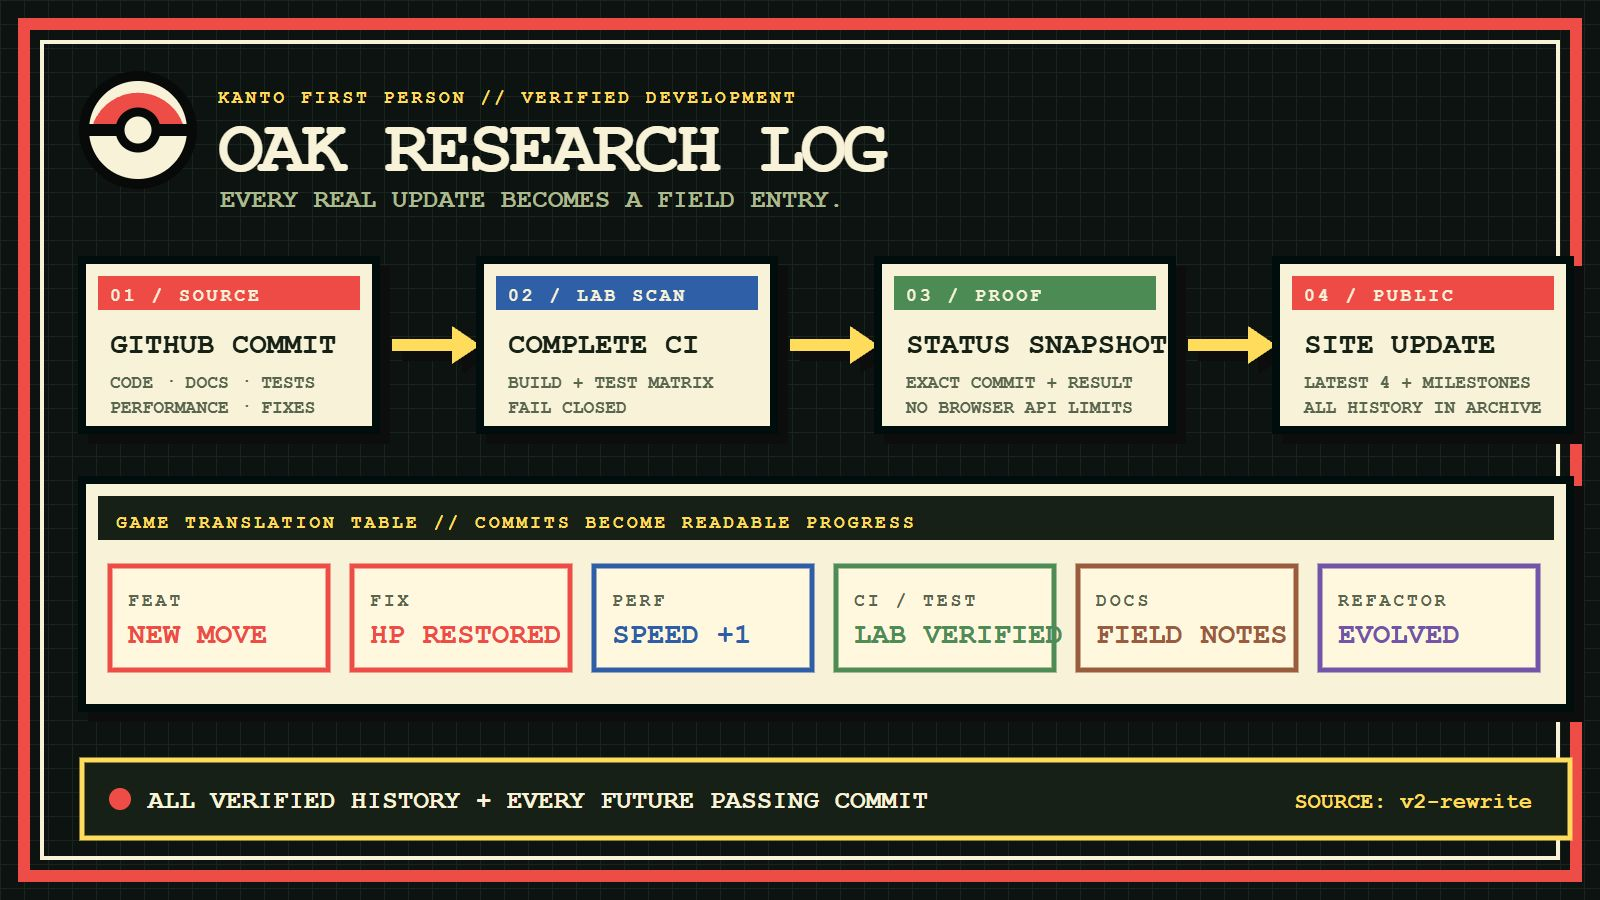
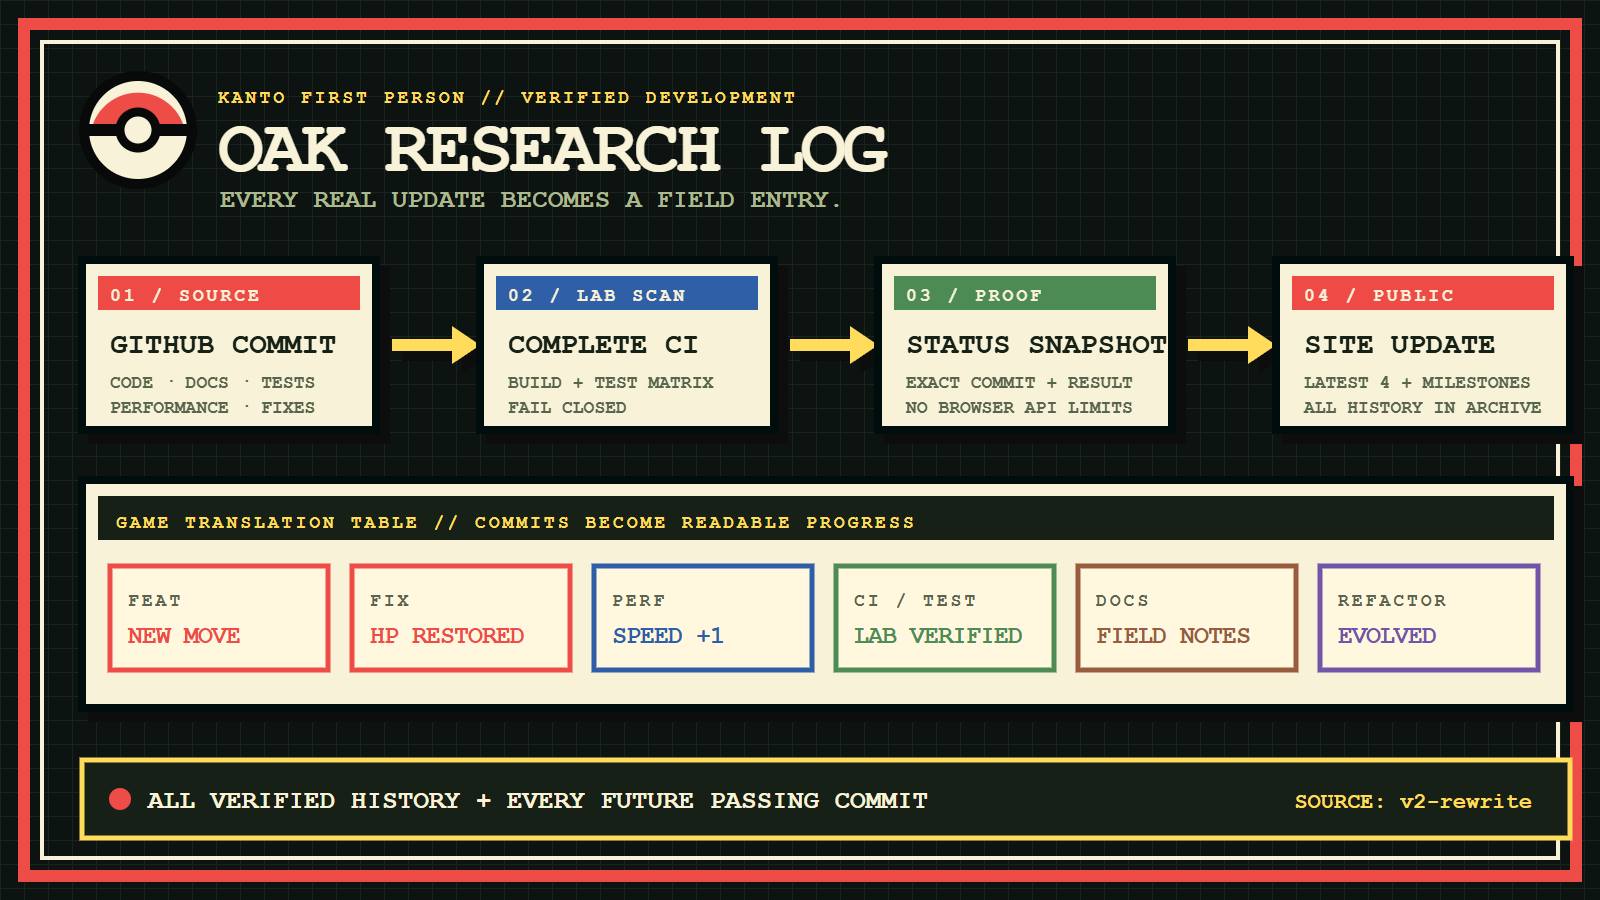
fix(website): fit activity graphic labels

diff --git a/website/tests/responsive.spec.ts b/website/tests/responsive.spec.ts
@@ -253,6 +253,26 @@ test('shows the complete verified project history in the research archive', asyn
   await expect(page.getByRole('link', { name: /DOWNLOAD SHARE GRAPHIC/ })).toHaveAttribute('href', /activity-system-share\.png$/)
 })
 
+test('keeps every activity translation label inside its graphic card', async ({ page }) => {
+  await page.goto(`${PAGE_PATH}activity-system-share.svg`)
+
+  const cards = page.locator('.translation-card')
+  await expect(cards).toHaveCount(6)
+  const fit = await cards.evaluateAll((items) => items.map((card) => {
+    const rect = card.querySelector('rect') as SVGGraphicsElement
+    const label = card.querySelector('.translation-label') as SVGGraphicsElement
+    const cardBox = rect.getBBox()
+    const labelBox = label.getBBox()
+    return {
+      text: label.textContent,
+      fitsLeft: labelBox.x >= cardBox.x + 12,
+      fitsRight: labelBox.x + labelBox.width <= cardBox.x + cardBox.width - 12,
+    }
+  }))
+
+  expect(fit).toEqual(fit.map((entry) => ({ ...entry, fitsLeft: true, fitsRight: true })))
+})
+
 test('supports shareable hash routes and browser history', async ({ page }) => {
   await page.setViewportSize({ width: 1440, height: 900 })
   await page.goto(`${PAGE_PATH}#rebuild`)
